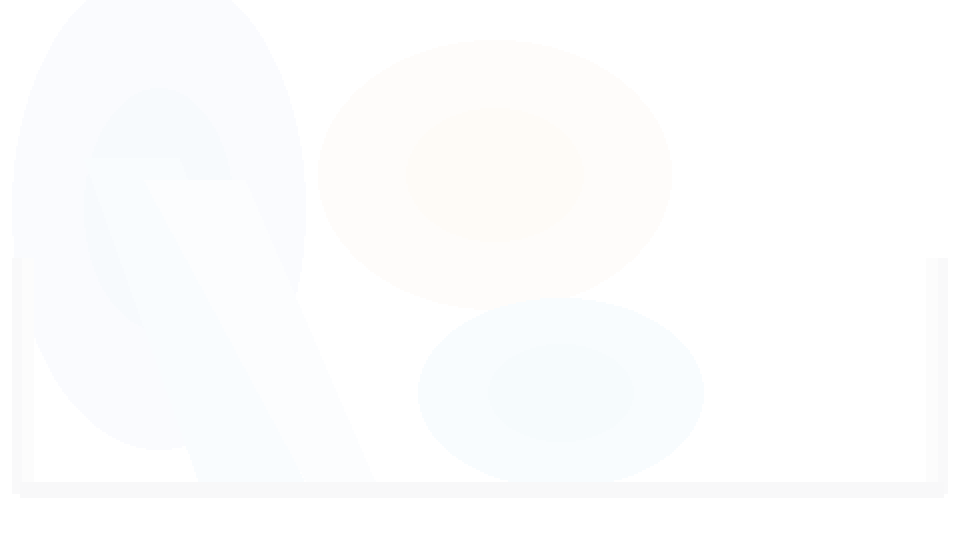
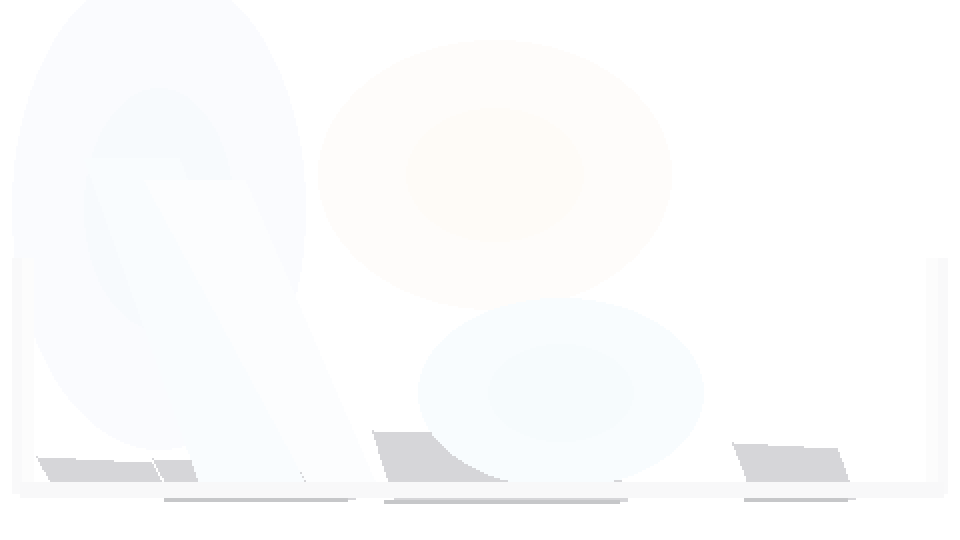
room lighting

Changed region(s): [[0.375, 0.8, 0.6562, 0.9481], [0.0312, 0.8296, 0.375, 0.9481], [0.75, 0.8, 0.9062, 0.9481]]

diff --git a/gameplay/msd/art/generate_room.py b/gameplay/msd/art/generate_room.py
@@ -130,33 +130,44 @@ for base_x in (75,120):
     art('shelf',(base_x,173,45,60))
 # Keep the plant window below the persistent top HUD, preserve 134:103 ratio.
 art('window',(41,40,81,62))
-# The PPT collage clips off the right side of its clock (team_clock.png has
-# opaque pixels right through its last column). NEVER edit the Art Team file.
-# Reconstruct a complete hand-pixelled clock at the same on-wall position.
-def whole_clock(cx=417, cy=70, radius=20):
-    # A small cast shadow makes the object project from the wall.
-    d.ellipse((cx-radius+2,cy-radius+4,cx+radius+3,cy+radius+5),fill='#252e38')
-    d.ellipse((cx-radius-1,cy-radius-1,cx+radius+1,cy+radius+1),fill='#282b32')
-    d.ellipse((cx-radius+1,cy-radius+1,cx+radius-1,cy+radius-1),fill='#8a6856')
-    d.ellipse((cx-radius+3,cy-radius+2,cx+radius-3,cy+radius-3),fill='#d7c6ad')
-    d.ellipse((cx-radius+5,cy-radius+4,cx+radius-5,cy+radius-5),fill='#f2e8d6')
-    d.arc((cx-radius+2,cy-radius+2,cx+radius-2,cy+radius-2),200,320,fill='#f9dfb7',width=2)
-    for hour in range(12):
-        theta=math.radians(hour*30-90)
-        r1=radius-8 if hour%3==0 else radius-7
-        r2=radius-5
-        x1=cx+round(math.cos(theta)*r1)
-        y1=cy+round(math.sin(theta)*r1)
-        x2=cx+round(math.cos(theta)*r2)
-        y2=cy+round(math.sin(theta)*r2)
-        d.line((x1,y1,x2,y2),fill='#49404a',width=2 if hour%3==0 else 1)
-    # Two independent hands, centered hub, and short highlight. No motion
-    # dependency: the clock remains a faithful pixel prop on a static map.
-    d.line((cx,cy,cx+10,cy-9),fill='#413843',width=2)
-    d.line((cx,cy,cx-2,cy+12),fill='#413843',width=3)
-    d.rectangle((cx-2,cy-2,cx+1,cy+1),fill='#b97c50')
-    d.point((cx,cy),fill='#ffe0a4')
-whole_clock()
+# The Art Team PPT collage crops its wall clock through the outer rim.
+# Keep team_clock.png as an untouched source, but paint a COMPLETE, reusable
+# transparent clock tile with matched radius, a dark side extrusion, a
+# two-tone brass bevel, 12 ticks, hand shadows and restrained glass sheen.
+# Separating it from the wall prevents a future collage import from
+# silently cropping the right edge again.
+clock=Image.new('RGBA',(64,64),(0,0,0,0))
+cd=ImageDraw.Draw(clock)
+cx,cy,radius=32,32,20
+cd.ellipse((cx-radius+3,cy-radius+4,cx+radius+4,cy+radius+5),fill='#24303b')
+cd.ellipse((cx-radius-2,cy-radius-2,cx+radius+2,cy+radius+2),fill='#292d36')
+cd.ellipse((cx-radius,cy-radius,cx+radius,cy+radius),fill='#9d795e')
+cd.ellipse((cx-radius+2,cy-radius+2,cx+radius-2,cy+radius-2),fill='#cfb38b')
+cd.ellipse((cx-radius+4,cy-radius+4,cx+radius-4,cy+radius-4),fill='#f4e5c9')
+# One-pixel highlight on the upper bezel and lower-right bevel shadow.
+cd.arc((cx-radius,cy-radius,cx+radius,cy+radius),185,318,fill='#f7dba8',width=2)
+cd.arc((cx-radius+1,cy-radius+1,cx+radius-1,cy+radius-1),-50,115,fill='#604b4b',width=2)
+for hour in range(12):
+    theta=math.radians(hour*30-90)
+    inner=radius-9 if hour%3==0 else radius-8
+    outer=radius-5
+    xy=(cx+round(math.cos(theta)*inner),cy+round(math.sin(theta)*inner),
+        cx+round(math.cos(theta)*outer),cy+round(math.sin(theta)*outer))
+    cd.line(xy,fill='#49404a',width=2 if hour%3==0 else 1)
+# Slight offset beneath the hands acts as an unblurred contact shadow.
+cd.line((cx+1,cy+1,cx+11,cy-8),fill='#9d8d75',width=3)
+cd.line((cx+1,cy+1,cx-1,cy+13),fill='#9d8d75',width=4)
+cd.line((cx,cy,cx+10,cy-9),fill='#3e3b43',width=2)
+cd.line((cx,cy,cx-2,cy+12),fill='#3e3b43',width=3)
+cd.rectangle((cx-2,cy-2,cx+1,cy+1),fill='#ae7354')
+cd.point((cx,cy),fill='#ffe4ac')
+# Glint rests on the glass without hiding the clock hands.
+cd.line((cx-10,cy-12,cx-4,cy-16),fill='#ffffff',width=1)
+cd.line((cx-12,cy-9,cx-10,cy-11),fill='#f7eedc',width=1)
+clock_bounds=clock.getchannel('A').getbbox()
+assert clock_bounds is not None and clock_bounds[0]>0 and clock_bounds[2]<64, clock_bounds
+# Previous clock center: world (834,140); both sides remain fully on wall.
+im.alpha_composite(clock,(417-32,70-32))
 # Add platform edge bright pixels above the furniture silhouettes.
 d=ImageDraw.Draw(im)
 for a,b,y in [(75,166,169),(188,298,202),(366,414,172)]:
@@ -170,11 +181,30 @@ for a,b in [(15,74),(76,165),(183,302),(361,419)]:
 # Local co-op spawn brackets; P1 blue, P2 red (match Character design).
 for x,c in ((40,'#4d9af2'),(442,'#f05e61')):
     box((x-17,247,x-10,248),c);box((x+10,247,x+17,248),c)
+# Richer hand-pixelled floor/prop grounding. A narrow dark foot line under
+# each anchored item and 1-pixel warm bounce on the floor adds depth without
+# changing the actual world collision (y=498).
+for left,right in ((18,71),(75,166),(185,301),(363,416)):
+    line((left+4,249,right-2,249),'#33333c')
+    line((left+9,252,right-5,252),'#aa8a70')
+# The lower wall is recessed into the baseboard; keep the 1px highlight
+# inside the trim instead of stretching pixel art.
+line((9,243,471,243),'#3b434d')
+line((9,244,471,244),'#9c8570')
+
 # Build separate transparent *depth layers* rather than baking all light
 # into the same opaque room. This leaves collision, players and interface
 # untouched and permits tuning the "HD-2D inspired" atmosphere independently.
 lighting=Image.new('RGBA',(W,H),(0,0,0,0))
 ld=ImageDraw.Draw(lighting)
+# Cast-shadows from furniture, behind the sprites because this plate
+# sits below appliance/player z-layers. Each is stair-stepped at half-res.
+for x1,x2,top,bottom in ((17,72,228,247),(75,165,229,249),
+                         (185,301,215,250),(365,415,221,249)):
+    ld.polygon([(x1+1,top),(x2+3,top+3),(x2+12,bottom),
+                (x1+12,bottom)],fill=(18,20,33,44))
+    ld.line((x1+7,bottom,x2+8,bottom),fill=(14,17,26,60),width=2)
+
 # Stepped lamp pools and stained-glass moonlight; no blur or filtering.
 for cx,cy,rx,ry,r,g,b in [(79,104,73,120,116,165,218),
                           (247,87,88,67,239,186,116),
@@ -212,10 +242,29 @@ for root_x,sgn in ((7,1),(473,-1)):
 fd.rectangle((182,247,301,249),fill=(40,31,43,150))
 fd.line((185,247,300,247),fill=(169,119,90,125),width=1)
 
+# Appliance lighting is a second pair of transparent environment plates.
+# The Godot script switches them on only when the actual AC / computer state
+# changes; pixel artists can later replace either plate independently.
+def device_light(cx,cy,rx,ry,ink):
+    plate=Image.new('RGBA',(W,H),(0,0,0,0))
+    glow=ImageDraw.Draw(plate)
+    for level in range(6,0,-1):
+        t=level/6
+        opacity=5 if level>4 else (11 if level>2 else 20)
+        glow.ellipse((int(cx-rx*t),int(cy-ry*t),
+                      int(cx+rx*t),int(cy+ry*t)),fill=(*ink,opacity))
+    return plate
+computer_glow=device_light(276,188,64,54,(83,202,222))
+ac_glow=device_light(324,170,78,70,(117,196,235))
+
 for filename,source in [
+    ('clock_complete.png',clock),
+    ('living_room_computer_glow.png',computer_glow),
+    ('living_room_ac_glow.png',ac_glow),
     ('living_room_pixel.png',im),
     ('living_room_lighting.png',lighting),
     ('living_room_foreground.png',front),
 ]:
-    source.resize((960,540),Image.Resampling.NEAREST).save(D/filename,optimize=True)
+    output_size=(128,128) if filename == "clock_complete.png" else (960,540)
+    source.resize(output_size,Image.Resampling.NEAREST).save(D/filename,optimize=True)
 print('Art Team room + repaired clock + background/light/foreground depth layers', (960,540))

diff --git a/gameplay/ART_SOURCES.md b/gameplay/ART_SOURCES.md
@@ -79,3 +79,7 @@ Regenerate the three aligned plates after layout tweaks:
 `gameplay/tests/gameplay_room_depth_test.gd` verifies the repaired clock dial
 and rim, translucent spatial layers, intended Z ordering, center playfield
 visibility and unchanged Simulation/physics contracts.
+
+## Complete wall clock and room depth (October 13)
+
+The Art Team source `team_clock.png` is a crop whose bezel meets the right image boundary. That credited source is unchanged. `generate_room.py` composites a separate transparent `clock_complete.png` with a full bezel, 12 ticks, hands, glass glint and cast shadow at the original position. The procedural 2D room also gains hand-pixelled contact shadows, lighting and foreground plates. Optional computer/AC glow PNGs are triggered by the actual appliance state through `room_lighting_fx.gd`. All are independent of collision and Ethan's material grid. The visual language is HD-2D-inspired, not imported artwork from any commercial game.

diff --git a/gameplay/README.md b/gameplay/README.md
@@ -408,3 +408,7 @@ velocity and animation methods have not been established by this isolated
 simulation. Re-run an equivalent test in that exact final arena once it is
 merged. This change leaves upstream scene files, material grids, Art sources,
 real level furniture and `project.godot` untouched.
+
+## Clock and room depth regression
+
+The `gameplay_room_depth_test.gd` suite validates the repaired clock tile and 960x540 composition, nearest-neighbor render ordering, independent alpha plates and state-responsive lighting for computer and AC. Regenerate with `python3 gameplay/msd/art/generate_room.py`; the Art Team's source crops remain unchanged.
